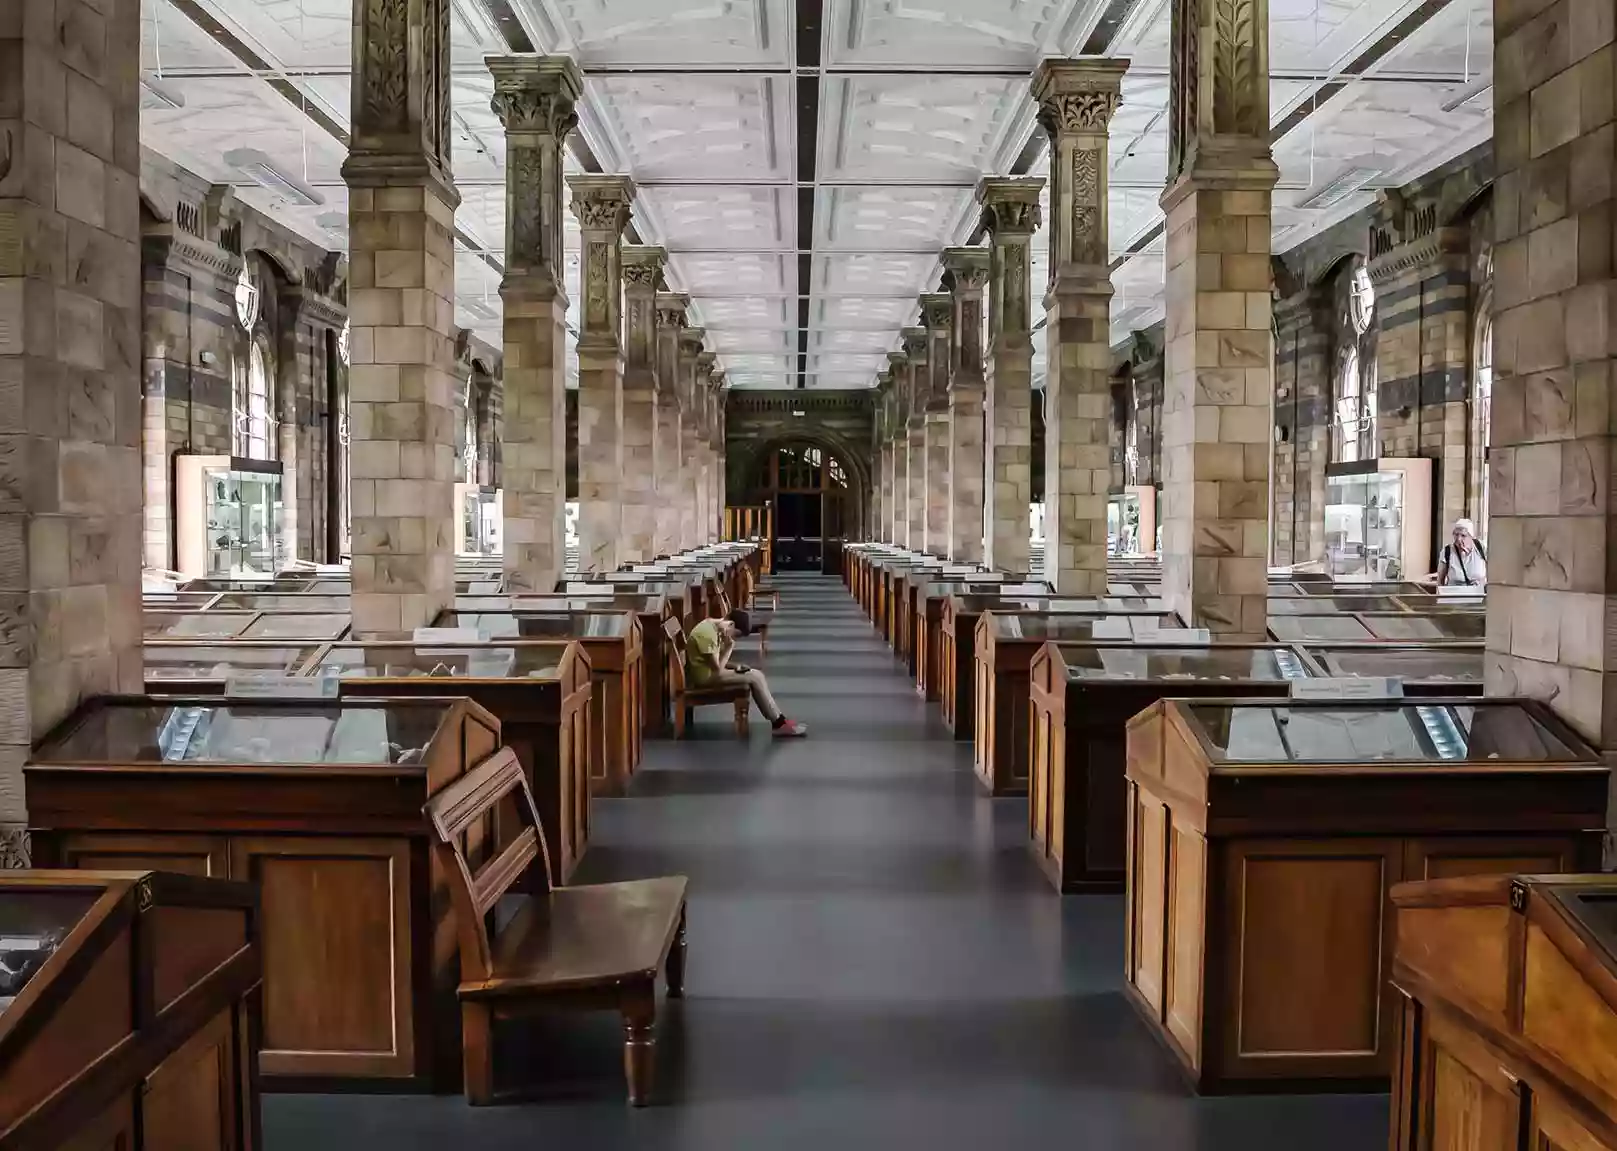
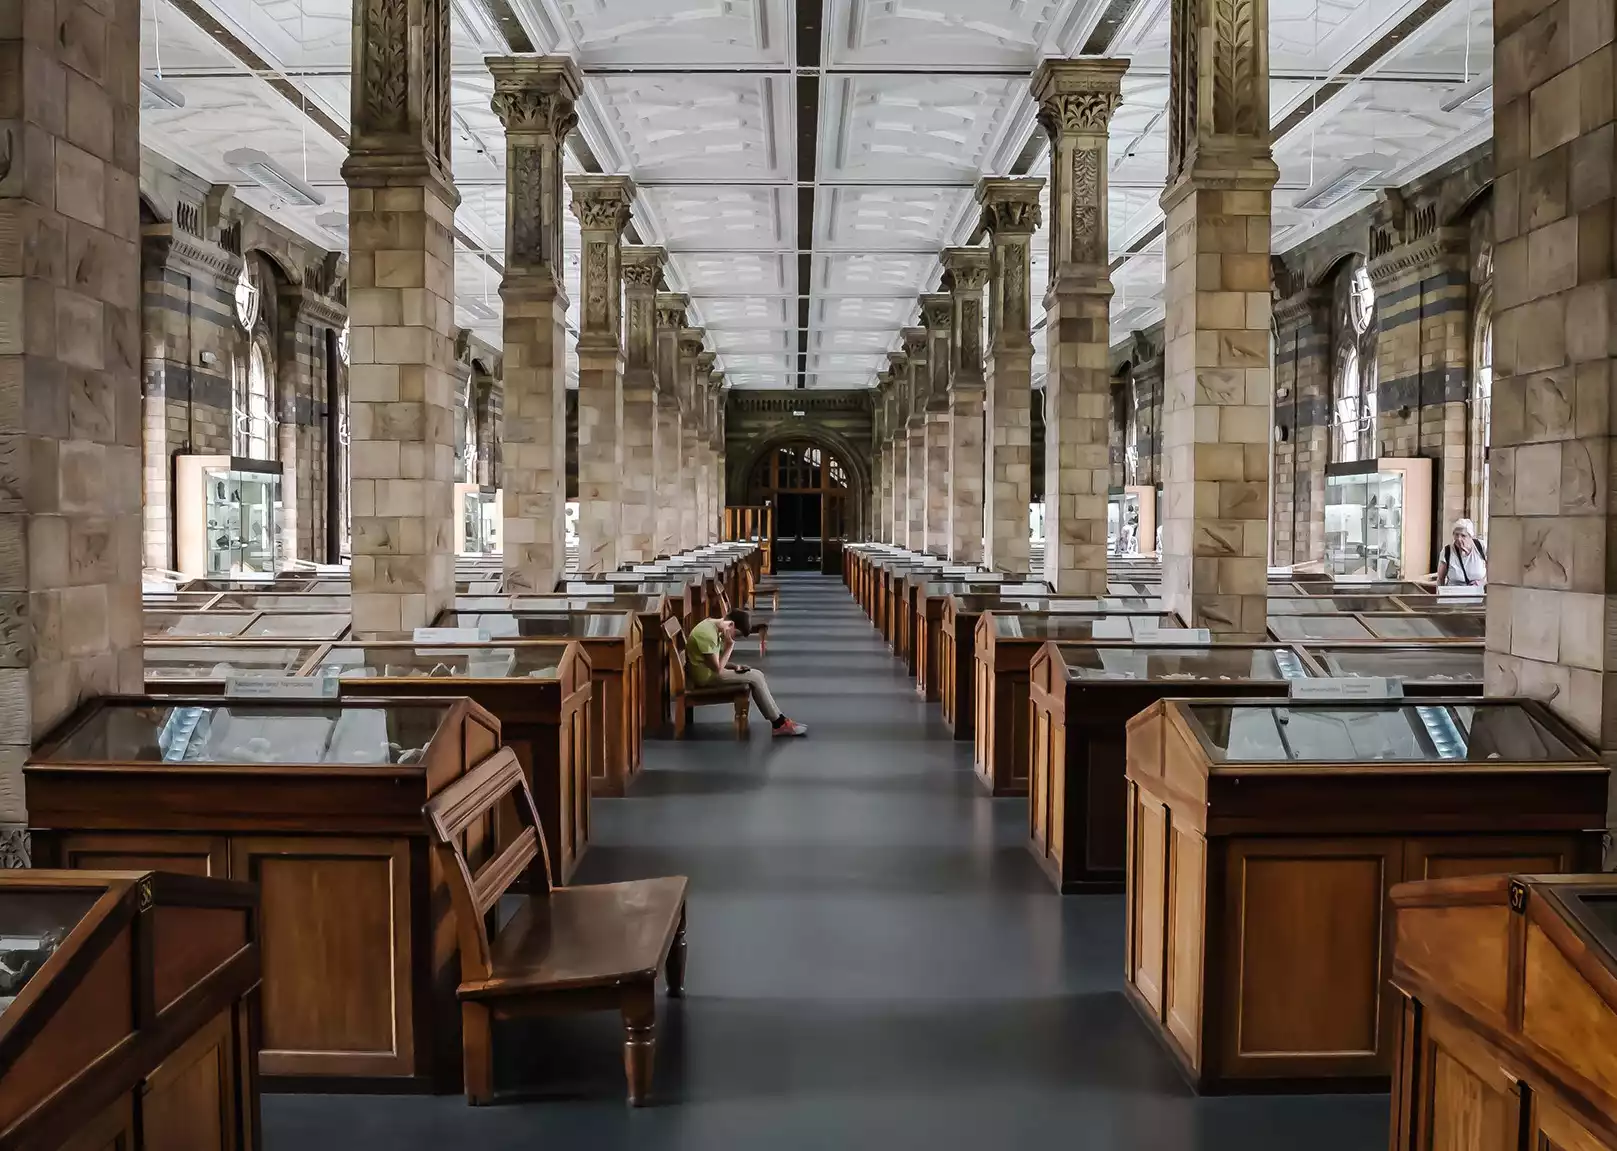
changed all pics to webp format some cropped or redused resolution

diff --git a/index.html b/index.html
@@ -52,7 +52,7 @@
       <h3>News</h3>
       <section>
         <div class="main-card">
-          <img src="images/reading-crop.jpg" />
+          <img src="images/reading-crop.webp" />
           <h3>Visiting Professor of Aeronautics</h3>
           <p>
             It is our pleasure to announce that Prof Sheila Widnall from the Massachusetts Institute of Technology will be delivering 3 lectures on the
@@ -61,7 +61,7 @@
           <a href="exhibitions.html" class="cta-card">Read more</a>
         </div>
         <div class="main-card">
-          <img src="images/mammoth.jpg" />
+          <img src="images/mammoth.webp" />
           <h3>Night in the Museum</h3>
           <p>
             Get your family together for an exciting night in the museum as you sleep over beside dinosaurs and science displays. Bring your own sleeping bag
@@ -70,7 +70,7 @@
           <a href="exhibitions.html" class="cta-card">Read more</a>
         </div>
         <div class="main-card">
-          <img src="images/moonphases.jpg" />
+          <img src="images/moonphases.webp" />
           <h3>Energetica Exhibition on Loan</h3>
           <p>
             On loan from the NEMO Science Museum in Amsterdam, the Energetica exhibition is coming to the Community Science Museum. It’s a series of
@@ -81,14 +81,14 @@
         </div>
         <div class="main-card">
           <h2>Explore</h2>
-          <img src="images/scientific.jpg" />
+          <img src="images/scientific.webp" />
           <h3>For kids</h3>
           <p>Are you a young person looking to learn more about science? Come on down to our museum, there’s plenty to see and do.</p>
           <a href="explore.html" class="cta-card">Read more</a>
         </div>
         <div class="main-card">
           <h2>Exhibitions</h2>
-          <img src="images/cosmos.jpg" />
+          <img src="images/cosmos.webp" />
           <h3>Cosmology</h3>
           <p>
             Explore the wonders of our cosmos. Our fantastic exhibition, ‘The Sky Above Us’, explores the night sky and what we can see and know about the
@@ -98,7 +98,7 @@
         </div>
         <div class="main-card">
           <h2>Get involved</h2>
-          <img src="images/learn.jpg" />
+          <img src="images/learn.webp" />
           <h3>Support</h3>
           <p>
             There are various ways you can support the museum. Donations are very welcome and are an important way we keep this museum open and accessible to
@@ -123,7 +123,7 @@
           galaxies far away to the very building blocks of life itself.
         </p>
         <a href="visit.html" class="cta-card">Visit us</a>
-        <img src="images/spacesuit.jpg" class="img2" />
+        <img src="images/spacesuit.webp" class="img2" />
       </div>
     </main>
     <footer>

diff --git a/explore.html b/explore.html
@@ -50,7 +50,7 @@
                 <p>
                  We also have the Young Stars club which meets once a week on a Saturday between 10:00 and 13:00 where you’ll get to explore and experiment with our team of experts.
                 </p>
-                <img src="images/scientific.jpg" class="heading-img" />
+                <img src="images/scientific.webp" class="heading-img" />
                 <div class="arrow-down"></div>
          </div>
           
@@ -66,14 +66,14 @@
                As a community-driven museum, we want to work with schools to create places of learning and exploring. 
                Our team are on hand to give your students guided tours of the museum, teach them in our learning laboratory, and provide great video presentations that will excite and inspire them.
             </p>
-            <img src="images/teacher.jpg" class="img" />
+            <img src="images/teacher.webp" class="img" />
             <p class="highlight">
                 Please get in touch with us <a href="getinvolved.html#contact">here</a> to find out more about our facilities and to arrange a time to bring your students through for a visit.
             </p>
            </div>
            <div class="card" id="researchers">
             <h2>Researchers</h2> 
-            <img src="images/researcher.jpg" class="img"/>
+            <img src="images/researcher.webp" class="img"/>
             <p>
                Are you looking to get involved with our team of researchers and academics? 
                Our museum offers various ways for you to use our resources and contribute towards them. 
@@ -86,8 +86,8 @@
               During the school holidays we run special holiday clubs where you can join other children your age to go on a journey of discovery. 
               Each holiday we pick a new theme to explore. To find out more about the holiday club and how you can join, send us a <a href="getinvolved.html#contact">message.</a>
              </p> 
-            <img src="images/spacesuit.jpg" class="img1" id="">
-            <img src="images/vrexperiencekid.jpg" class="img2" id="">
+            <img src="images/spacesuit.webp" class="img1" id="">
+            <img src="images/vrexperiencekid.webp" class="img2" id="">
             <p class="mobile-p1">The aim of our museum is to create a space where everyone can experience the wonders of our discoveries and perhaps even ignite a lifelong passion to continue the exploration of the world around us.</p>
             <p class="mobile-p2">Over the course of human history, science has developed from our early understanding of fire, wind, water, and earth to exploring everything from galaxies far away to the very building blocks of life itself.</p>
            </div>

diff --git a/getinvolved.html b/getinvolved.html
@@ -50,7 +50,7 @@
         You can also support us by donating items of interest to the museum’s collections. If you have some item or collection that you think others would
         enjoy, please let us know by contacting our Collections Department and they will be able to assist you.
       </p>
-      <img src="images/learn.webp" class="heading-img" />
+      <img src="images/learn2.webp" class="heading-img" />
       <div class="arrow-down"></div>
     </section>
     <main>
@@ -66,11 +66,11 @@
             You can help volunteer in a number of different spheres. Please <a href="getinvolved.html#contact">contact</a> us if you’d like to find out more
             about how you can get involved.
           </p>
-          <img src="images/vrexperience.jpg" class="img" />
+          <img src="images/vrexperience.webp" class="img" />
         </div>
         <div class="card" id="internships">
           <h2>Internships</h2>
-          <img src="images/puzzle.jpg" class="img" />
+          <img src="images/puzzle.webp" class="img" />
           <p>
             Are you interested in working in a museum? Do you enjoy the fun and excitement of sharing the wonders of nature with people? Well you could be just
             the right person to enjoy an internship at the museum.

diff --git a/exhibitions.html b/exhibitions.html
@@ -67,7 +67,7 @@
             Discover the origins of life on this planet and how the species we know today have evolved our time. You can also take some time to meet a few of
             the creatures who didn’t survive, including our Woolly Mammoth, the Dodos, and a number of dinosaurs too.
           </p>
-          <img src="images/skeletons.jpg" class="img" />
+          <img src="images/skeletons.webp" class="img" />
         </div>
         <div class="card" id="biologyandmedicine">
           <h2>Biology and Medicine</h2>
@@ -94,7 +94,7 @@
           </p>
         </div>
         <div class="card" id="ecology">
-          <img src="images/web.jpg" class="img" />
+          <img src="images/web.webp" class="img" />
           <h2>Ecology</h2>
           <p>
             As we learn more and more of the impact humans are having on the planet, the more important it becomes that scientists explore how to create a

diff --git a/visit.html b/visit.html
@@ -45,7 +45,7 @@
       <p>The museum is located at [student to include address].</p>
       <h2>Admission</h2>
       <p>The entrance is free for all.</p>
-      <img src="images/museum.jpg" class="heading-img" />
+      <img src="images/museum.webp" class="heading-img" />
       <div class="arrow-down"></div>
     </section>
     <main>
@@ -68,7 +68,7 @@
           <p>Friday: 10:00 – 19:00</p>
           <p>Saturday: 9:00 – 16:00</p>
           <p>Sunday: 9:00 – 13:00</p>
-          <img src="images/library.jpg" />
+          <img src="images/library.webp" />
         </div>
         <div class="card">
           <h2>Accessibility</h2>

diff --git a/css/styles.css b/css/styles.css
@@ -174,7 +174,7 @@ ul {
 footer {
   min-height: 10%;
   background-color: #edffc5;
-  background-image: url(/images/scienceequipment.jpg);
+  background-image: url(/images/scienceequipment.webp);
   background-size: 20vh;
   background-repeat: repeat-x;
   background-position: bottom;
